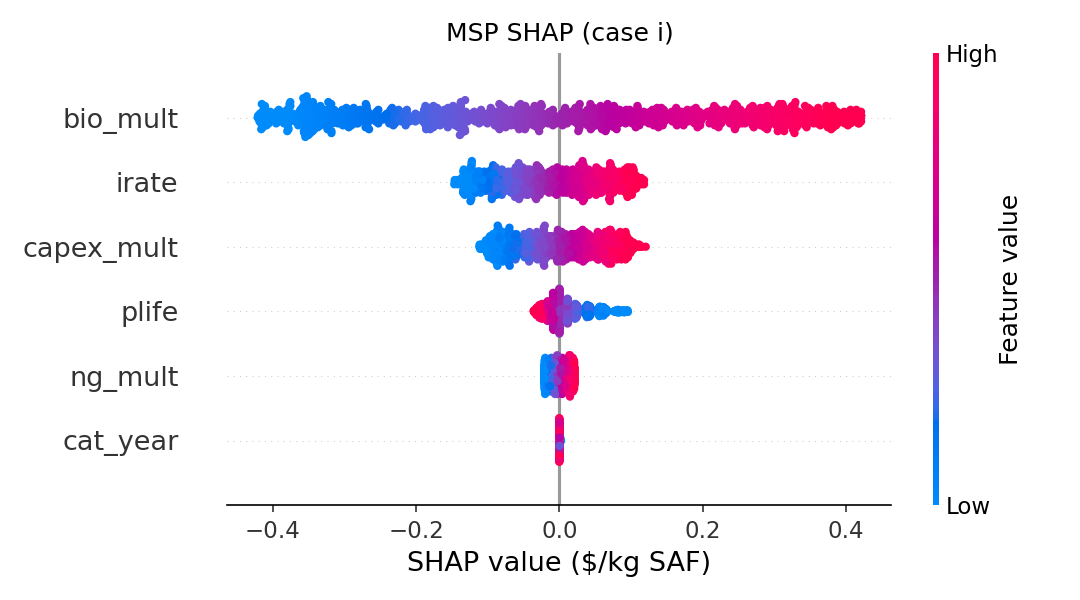
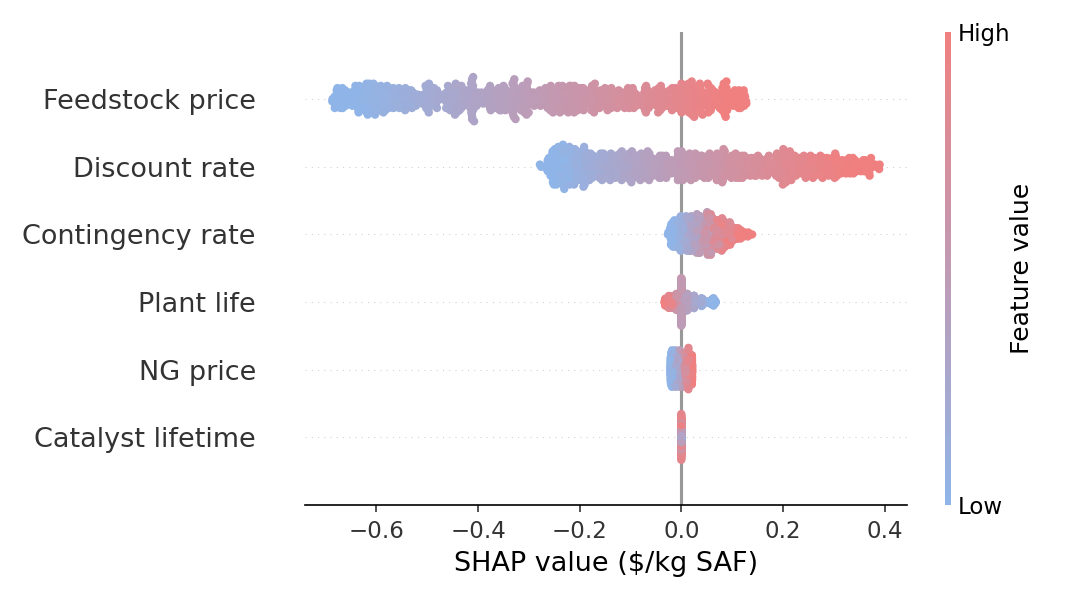
Add contingency (tech-maturity) lever to MSP SA + refresh SHAP
- cash_flow_SA.m / SA_driver.m: contingency fraction as SA lever (default
  0.15; sweep 0.10-0.40 for FOAK/AACE Class-5 premium)
- sa_model_ijk.py: cont_frac kwarg (drives SHAP), default preserves baseline
- shap_sa.py: MSP features = feedstock/NG/discount/plant-life/catalyst/
  contingency (dropped meaningless scale/capex_mult at fixed process scale);
  LCA dropped steam+cooling as vars (folded into fixed baseline, 32.32 held);
  sentence-case labels, no titles, TEA blue->salmon colormap
- MSP ranges: feedstock $20-120/ton, NG +-50%, discount 0-30%, plant life
  +-30%, catalyst 1-5 yr
- Regenerated shap_msp_case{i,j,k}, compare, lca figures + CSVs

Claude-Session: https://claude.ai/code/session_01PG1ezsdZeLRqXVsmkoAeSc

diff --git a/sa/shap_sa.py b/sa/shap_sa.py
@@ -10,7 +10,11 @@ GWP: linear EF scaling (replicated from ../TEA_LCA_non_CC_260731_catOPEX/lca_oat
 import os, sys
 import numpy as np, pandas as pd, matplotlib
 matplotlib.use("Agg"); import matplotlib.pyplot as plt
+from matplotlib.colors import LinearSegmentedColormap
 import shap
+
+# feature-value colormap matching drHa_TEA_summary_3.png: CAPEX blue -> OPEX salmon
+SHAP_CMAP = LinearSegmentedColormap.from_list("tea_bl_sal", ["#8FB5E8", "#F08080"])
 
 HERE = os.path.dirname(os.path.abspath(__file__))
 sys.path.insert(0, HERE)
@@ -36,22 +40,24 @@ def run_shap(f, names, lo, hi, baseline, tag, title, unit):
     print(f"\n== {tag} ==  baseline = {base_val:.5g} {unit}")
     print(rank.to_string(index=False))
 
-    shap.summary_plot(sv, X, feature_names=names, show=False, plot_size=(7.2, 4.0))
-    plt.title(title); plt.xlabel(f"SHAP value ({unit})"); plt.tight_layout()
+    shap.summary_plot(sv, X, feature_names=names, show=False, plot_size=(7.2, 4.0), cmap=SHAP_CMAP)
+    plt.xlabel(f"SHAP value ({unit})"); plt.tight_layout()   # no title (PLOTTING_STYLE.md)
     png = os.path.join(HERE, f"shap_{tag}.png"); plt.savefig(png, dpi=150); plt.close()
     print(f"saved: {csv}, {png}")
     return sv, X, base_val
 
 # ---------------- MSP (case j, nonlinear DCF) ----------------
-MSP_NAMES = ["bio_mult", "ng_mult", "capex_mult", "irate", "plife", "cat_year"]
-MSP_LO    = [0.50, 0.50, 0.70, 0.08, 10, 1]
-MSP_HI    = [1.50, 1.50, 1.30, 0.20, 20, 5]
-MSP_BASE  = [1.00, 1.00, 1.00, 0.15, 15, 3]
+_BIO_TON = M.BIO_PRICE0 * 1000            # base biomass price, $/ton (bio_mult=1.0)
+MSP_NAMES = ["Feedstock price", "NG price", "Discount rate", "Plant life", "Catalyst lifetime", "Contingency rate"]
+MSP_LO    = [20/_BIO_TON,  0.50, 0.00, 10.5, 1, 0.10]   # feedstock $20/ton, NG -50%, i 0%, life -30%
+MSP_HI    = [120/_BIO_TON, 1.50, 0.30, 19.5, 5, 0.40]   # feedstock $120/ton, NG +50%, i 30%, life +30%
+MSP_BASE  = [1.00, 1.00, 0.15, 15, 3, 0.15]
 def make_f_msp(case):
     d = M.cases[case]
     def f(X):
-        return np.array([M.solve_msp(d, bio_mult=r[0], ng_mult=r[1], capex_mult=r[2],
-                                     irate=r[3], plife=r[4], cat_year=r[5], cat_replace=True)
+        return np.array([M.solve_msp(d, bio_mult=r[0], ng_mult=r[1], irate=r[2],
+                                     plife=r[3], cat_year=r[4], cont_frac=r[5],
+                                     cat_replace=True)
                          for r in np.atleast_2d(X)])
     return f
 
@@ -65,13 +71,13 @@ _row = _lca[_lca["Case"] == _lca["Case"].iloc[0]].iloc[0]
 def _grp(pfx):
     cs = [c for c in _lca.columns if c.startswith(pfx)]
     return float(pd.to_numeric(_row[cs], errors="coerce").sum())
-_contrib = {"Feedstock GWP (biomass)": _grp("Scenario_Feed_BM"),
-            "Electricity grid factor": _grp("Scenario_elec_GRID"),
-            "Natural gas GWP":         _grp("Scenario_Feed_NG"),
-            "Steam EF":                _grp("Scenario_steam"),
-            "Cooling EF":              _grp("Scenario_ref"),
-            "WWT EF":                  _grp("Scenario_WWT")}
-_emi = _grp("Scenario_emi")
+_contrib = {"Biomass feedstock": _grp("Scenario_Feed_BM"),
+            "Electricity":       _grp("Scenario_elec_GRID"),
+            "NG":                _grp("Scenario_Feed_NG"),
+            "WWT":               _grp("Scenario_WWT")}
+# steam + cooling dropped as SA variables (negligible); their fixed emission stays
+# in the un-perturbed baseline so total GWP is unchanged.
+_emi = _grp("Scenario_emi") + _grp("Scenario_steam") + _grp("Scenario_ref")
 _C   = np.array(list(_contrib.values()))
 _K   = float(_row["Alloc_SAF_1"]) / (_C.sum() + _emi)     # S -> allocated intensity
 def f_gwp(X):
@@ -79,10 +85,10 @@ def f_gwp(X):
     return _K * (_emi + X @ _C) * 1000.0                  # -> gCO2/MJ
 
 GWP_NAMES = list(_contrib)
-GWP_PCT   = [0.30, 0.20, 0.20, 0.20, 0.20, 0.20]          # biomass +-30%, rest +-20%
+GWP_PCT   = [0.30, 0.20, 0.20, 0.20]                      # biomass +-30%, rest +-20%
 GWP_LO    = [1 - p for p in GWP_PCT]
 GWP_HI    = [1 + p for p in GWP_PCT]
-GWP_BASE  = [1.0] * 6
+GWP_BASE  = [1.0] * len(GWP_NAMES)
 
 if __name__ == "__main__":
     # MSP SHAP per base scenario i, j, k
@@ -99,7 +105,6 @@ if __name__ == "__main__":
     print(cmp.to_string())
     ax = cmp.plot.barh(figsize=(7.2, 4.0), width=0.8)
     ax.invert_yaxis(); ax.set_xlabel("mean|SHAP|  ($/kg SAF)")
-    ax.set_title("MSP feature importance across base scenarios i/j/k")
     ax.legend(title="case"); plt.tight_layout()
     plt.savefig(os.path.join(HERE, "shap_msp_compare.png"), dpi=150); plt.close()
     print("saved: shap_msp_compare.csv, shap_msp_compare.png")

diff --git a/sa/cash_flow_SA.m b/sa/cash_flow_SA.m
@@ -12,6 +12,9 @@ function processData = cash_flow_SA(processData, COST, x)
 %        lifetime => higher annual cost => higher MSP, so lifetime is a live
 %        lever. Enable with COST.catalyst.replace = true. Default false =>
 %        original behaviour (lifetime has NO effect, matching as-published).
+%     4) COST.contingency - contingency fraction of C_DPI (tech-maturity /
+%        FOAK risk premium). Default 0.15 (as published). Emerging bioconversion
+%        (AACE Class 5 / pioneer plant) -> 0.30-0.50.
 %   SAF is priced at x (the decision variable) so the MSP solver can drive
 %   NPV(x) = 0. See msp_npv_SA.m.
 %
@@ -25,6 +28,7 @@ option.FIGURE    = false;
 if isfield(COST,'capex_mult'),                 capex_mult = COST.capex_mult; else, capex_mult = 1.0; end
 if isfield(COST,'catalyst') && isfield(COST.catalyst,'C_inventory'), C_catalyst = COST.catalyst.C_inventory; else, C_catalyst = 59707.35; end
 if isfield(COST,'catalyst') && isfield(COST.catalyst,'replace'),     cat_replace = COST.catalyst.replace; else, cat_replace = false; end
+if isfield(COST,'contingency'),                cont_frac  = COST.contingency; else, cont_frac  = 0.15; end
 
 CC = processData.CapitalCost;
 OC = processData.OperatingCost;
@@ -63,7 +67,7 @@ sum_alloc      = C_alloc_steam + C_alloc_elec + C_alloc_cw + C_alloc_pw + C_allo
 C_alloc        = 0.05*C_TBM + sum_alloc;
 
 C_DPI     = C_TBM + C_site + C_serv + C_alloc;
-C_cont    = 0.15*C_DPI;
+C_cont    = cont_frac*C_DPI;                 % SA lever (default 0.15)
 C_TDC     = C_DPI + C_cont;
 C_land    = 0.02*C_TDC;
 C_royal   = 0;

diff --git a/sa/sa_model_ijk.py b/sa/sa_model_ijk.py
@@ -30,7 +30,7 @@ cases={
 }
 
 def npv(x, d, *, capex_mult=1.0, cat_replace=True, cat_year=3, C_cat_inv=C_CAT_INV,
-        bio_mult=1.0, ng_mult=1.0, irate=IRATE0, plife=PLIFE0):
+        bio_mult=1.0, ng_mult=1.0, irate=IRATE0, plife=PLIFE0, cont_frac=0.15):
     S = d['mSAF']*TOP*x + d['mGAS']*TOP*P_GAS
     # CAPEX buildup (matches cash_flow_SA)
     C_EQP=(d['EQ']-C_CAT_INV)*capex_mult
@@ -39,7 +39,7 @@ def npv(x, d, *, capex_mult=1.0, cat_replace=True, cat_year=3, C_cat_inv=C_CAT_I
     sum_alloc=  d['sum_alloc']
     C_alloc=0.05*C_TBM+sum_alloc
     C_DPI=C_TBM+C_site+0+C_alloc
-    C_cont=0.15*C_DPI
+    C_cont=cont_frac*C_DPI
     C_TDC=C_DPI+C_cont
     # operating
     C_feed=np.array([34442096.91430799*bio_mult, d['mNG']*TOP*NG_PRICE0*ng_mult])

diff --git a/sa/SA_driver.m b/sa/SA_driver.m
@@ -65,6 +65,7 @@ P = {
    'Plant life (yr)'            ,'plant_life'    , baseCOST.plant_life , [10 12 15 18 20]
    'CAPEX multiplier (-)'       ,'capex_mult'    , 1.0           , [0.70 0.85 1.00 1.15 1.30]
    'Natural gas price ($/kg)'   ,'NG'            , bNG           , bNG*[0.50 0.75 1.00 1.25 1.50]
+   'Contingency (-)'            ,'contingency'   , 0.15          , [0.10 0.15 0.20 0.30 0.40]
 };
 
 %% ---- One-at-a-time sweeps ---------------------------------------------
